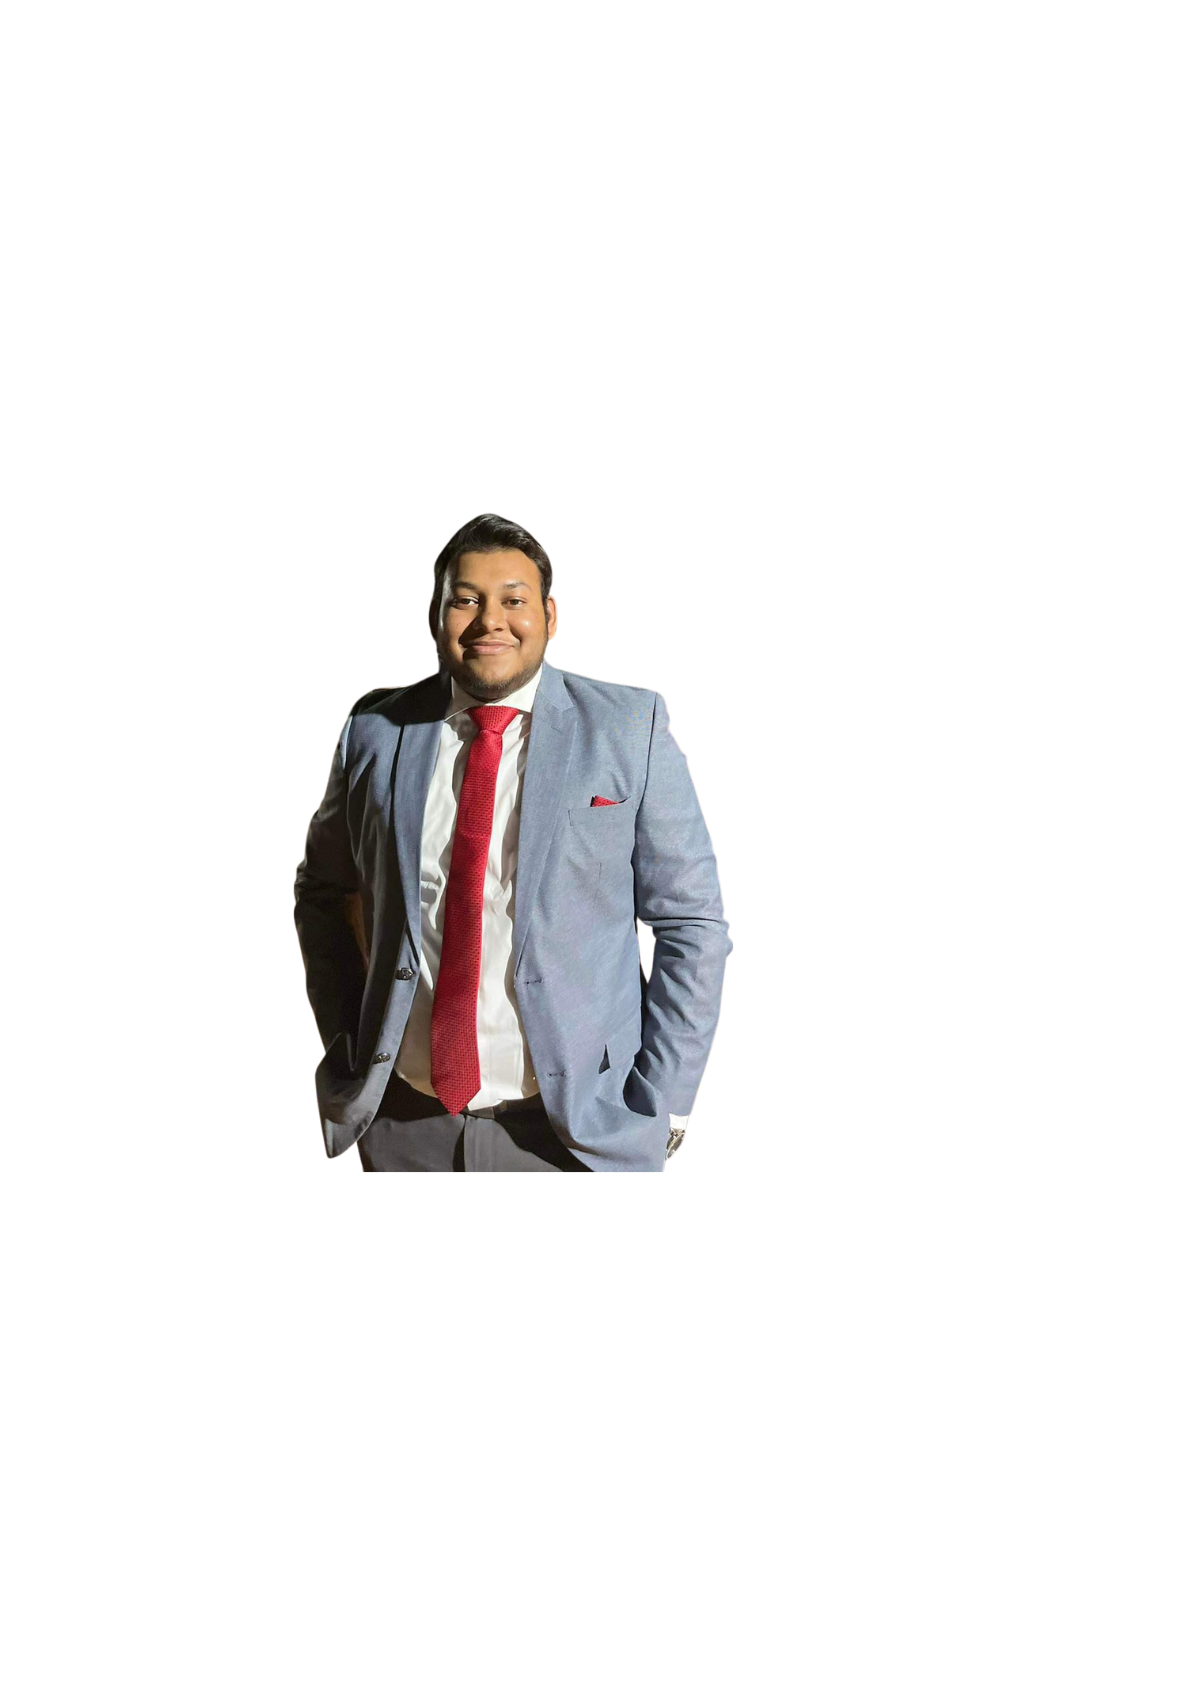
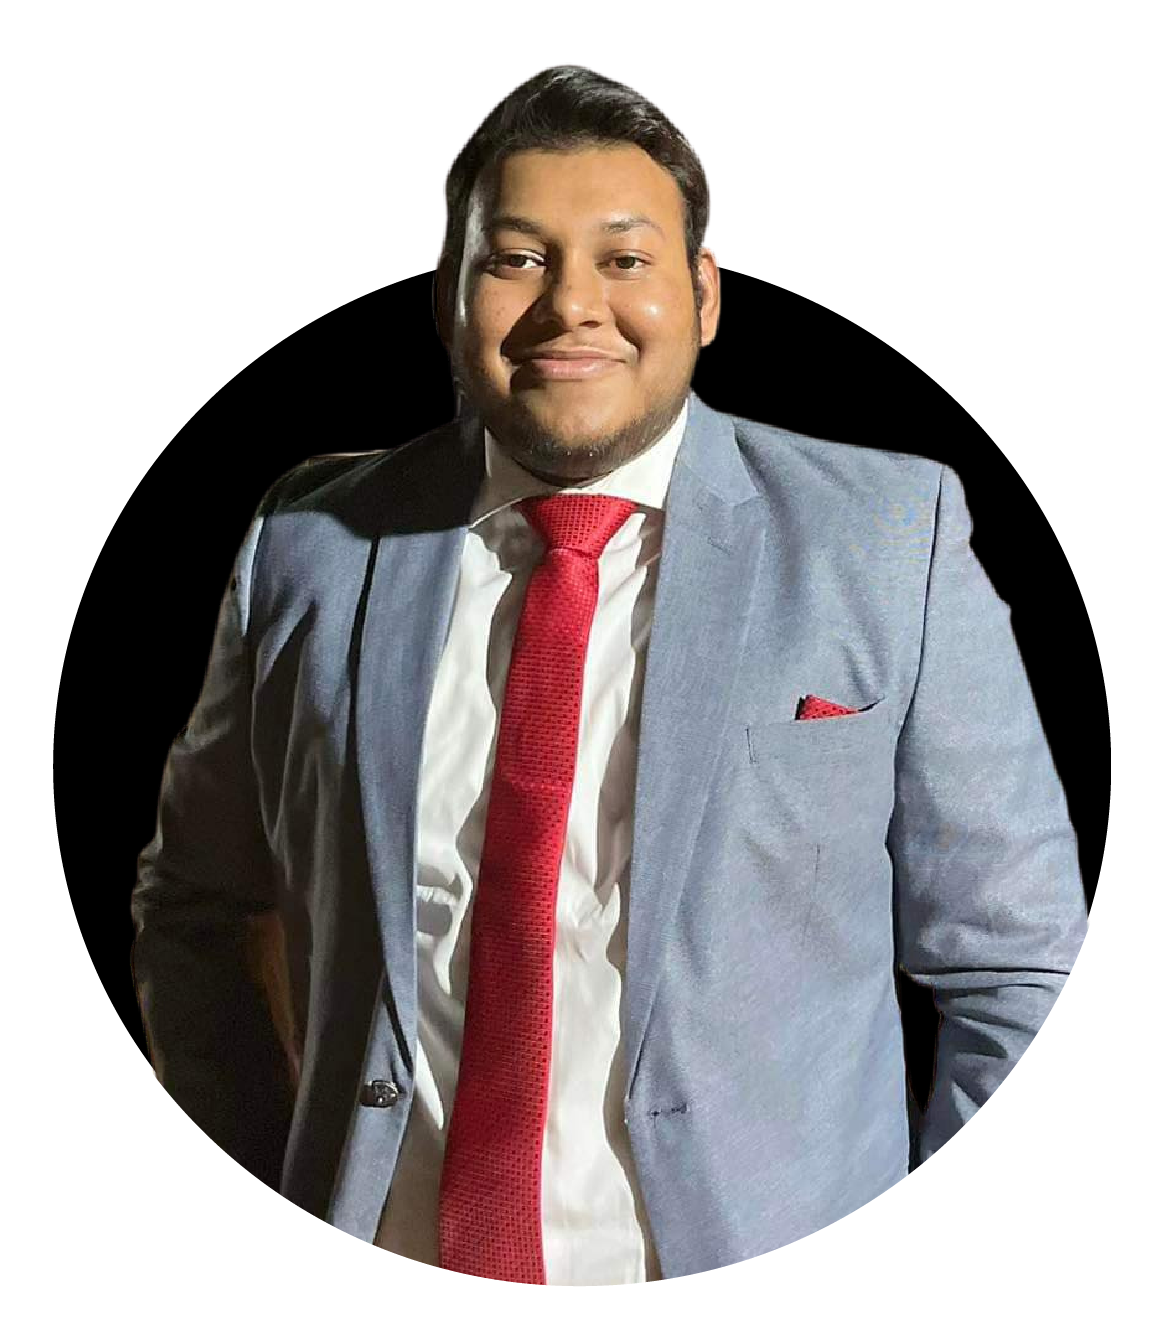
dp updated

diff --git a/index.html b/index.html
@@ -81,7 +81,9 @@
               /></a>
             </div>
           </div>
-          
+          <div class="pfp">
+            <img class="dsrc="Photo/DP.png" alt="" />
+          </div>
 
 
 
